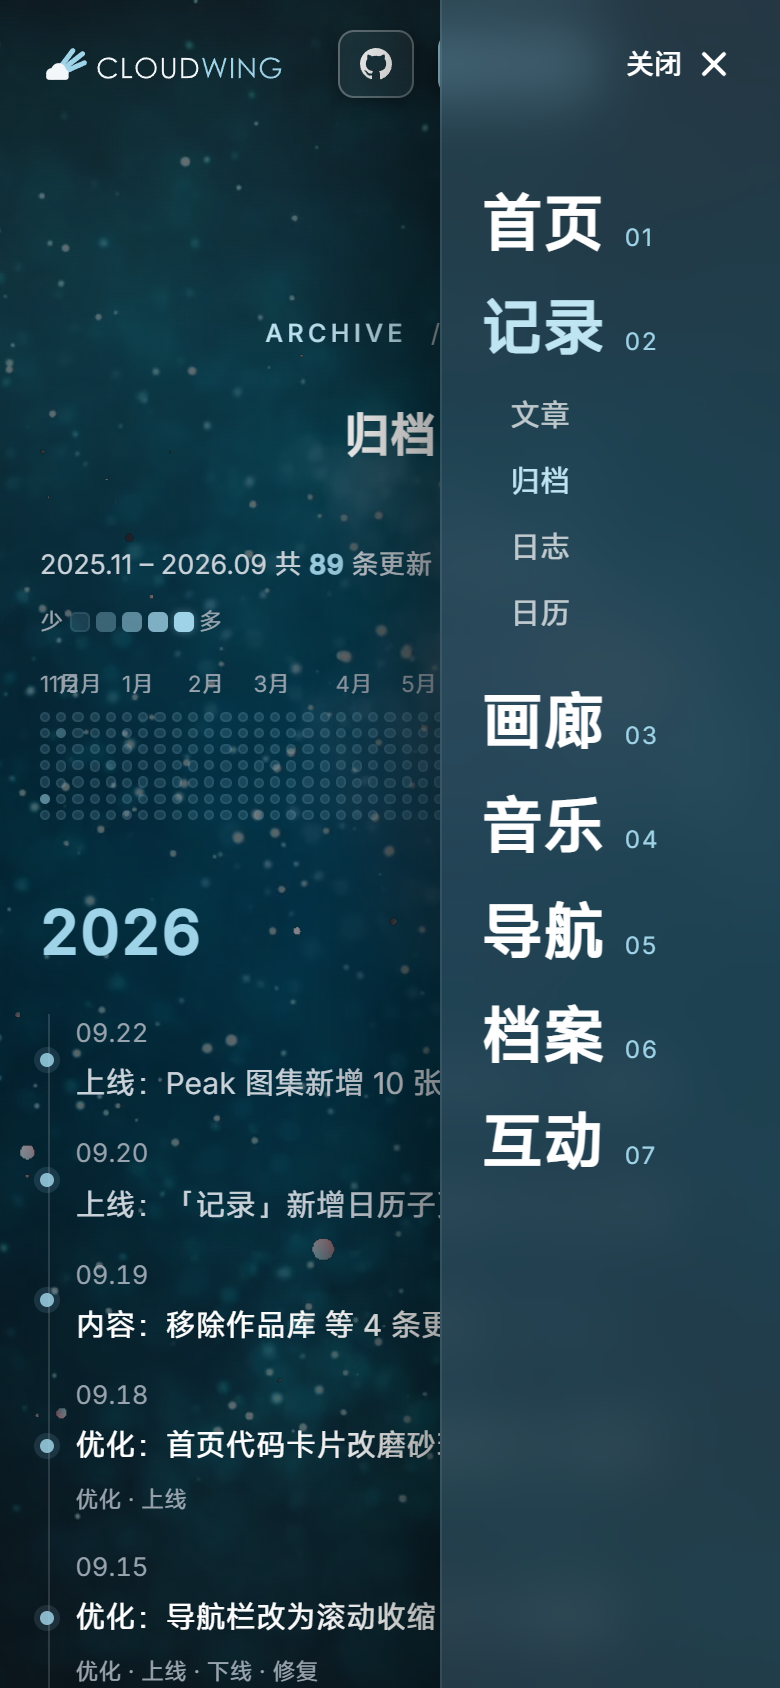
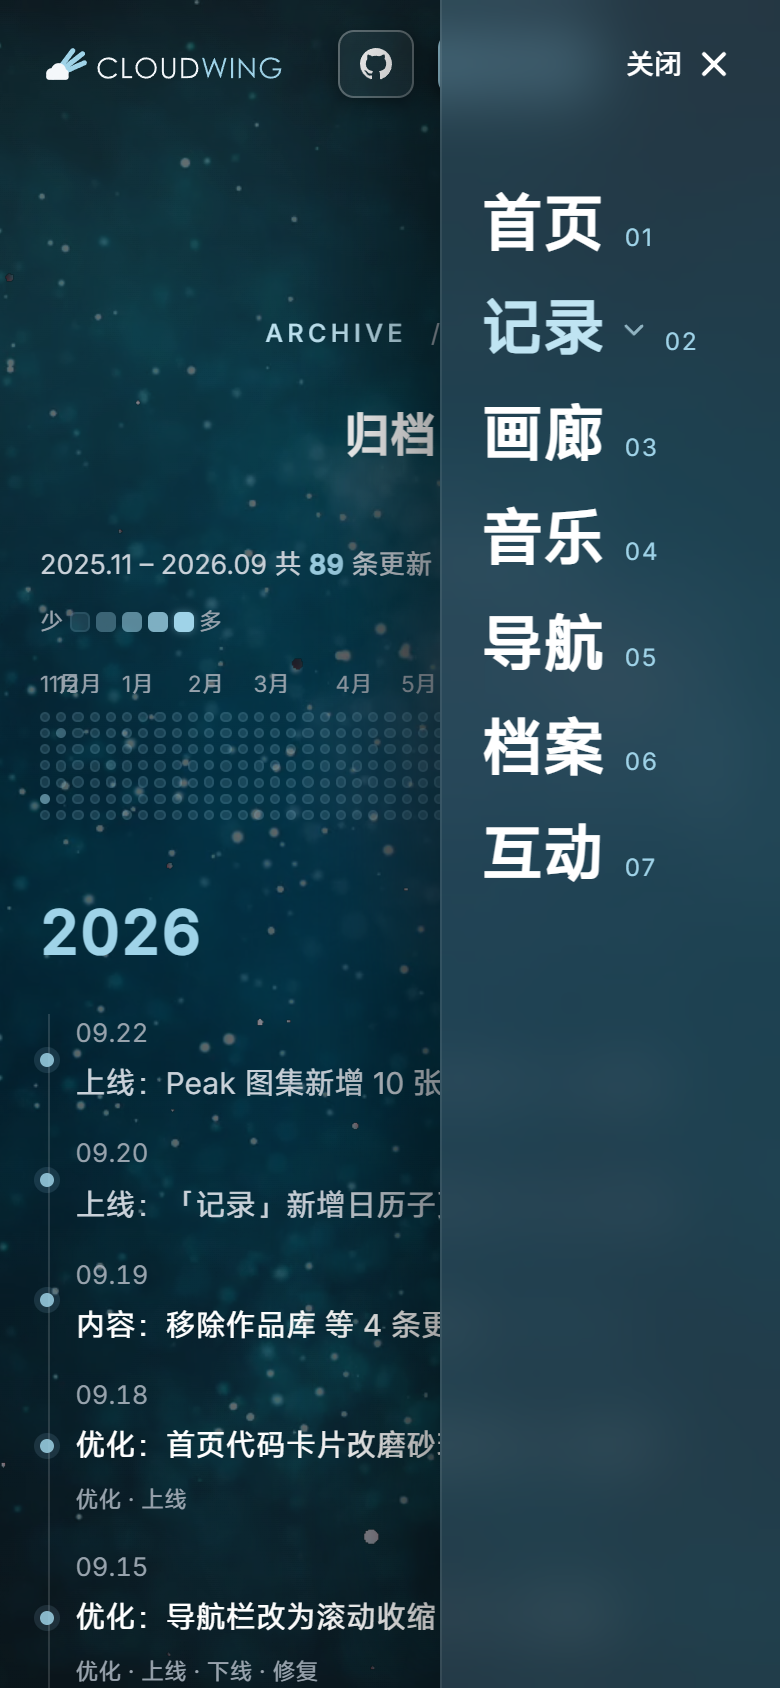
ui: 抽屉「记录」子链接收进下拉菜单（点父项展开，§80 反馈 4）

diff --git a/src/scripts/nav-mobile.js b/src/scripts/nav-mobile.js
@@ -52,7 +52,6 @@ function initMobileNav() {
     gsap.set([p.inner, ...p.layers], { x: 0, xPercent: 100 });
     gsap.set(p.labels, { yPercent: 140, rotate: 10 });
     gsap.set(p.links, { '--sm-num': 0 });
-    gsap.set(p.subs, { y: 14, opacity: 0 });
     panel.hidden = true;
   };
   const killTweens = () => {
@@ -108,7 +107,6 @@ function initMobileNav() {
       gsap.set([p.inner, ...p.layers], { xPercent: 0 });
       gsap.set(p.labels, { yPercent: 0, rotate: 0 });
       gsap.set(p.links, { '--sm-num': 1 });
-      gsap.set(p.subs, { y: 0, opacity: 1 });
     } else {
       const tl = gsap.timeline();
       openTlRef = tl;
@@ -118,7 +116,6 @@ function initMobileNav() {
       tl.fromTo(p.inner, { xPercent: 100 }, { xPercent: 0, duration: 0.65, ease: 'power4.out' }, at);
       tl.to(p.labels, { yPercent: 0, rotate: 0, duration: 1, ease: 'power4.out', stagger: 0.09 }, at + 0.1);
       tl.to(p.links, { '--sm-num': 1, duration: 0.6, ease: 'power2.out', stagger: 0.06 }, at + 0.15);
-      tl.to(p.subs, { y: 0, opacity: 1, duration: 0.5, ease: 'power3.out', stagger: 0.07 }, at + 0.22);
     }
     animateIcon(true);
     animateText(true);
@@ -156,6 +153,26 @@ function initMobileNav() {
     toggle?.setAttribute('aria-expanded', 'false');
     toggle?.setAttribute('aria-label', '打开菜单');
   };
+
+  /* 「记录」组：点击父项只展开/收起下拉，不跳转不关抽屉。
+     必须捕获阶段 + stopPropagation：抢在 ClientRouter（bubble）与本文件的
+     「点抽屉链接即收起」委托之前，否则 preventDefault 拦不住 pushState 导航。 */
+  document.addEventListener('click', (ev) => {
+    const t = ev.target instanceof Element ? ev.target : null;
+    if (!t) return;
+    const link = t.closest('[data-mnav-panel] .sm-item.has-sub > .sm-link');
+    if (!link) return;
+    ev.preventDefault();
+    ev.stopPropagation();
+    const item = link.closest('.sm-item.has-sub');
+    const on = !item.classList.contains('open');
+    item.classList.toggle('open', on);
+    link.setAttribute('aria-expanded', String(on));
+    if (on && !reduced()) {
+      const subLinks = item.querySelectorAll('.sm-sub a');
+      gsap.fromTo(subLinks, { y: -8, opacity: 0 }, { y: 0, opacity: 1, duration: 0.35, ease: 'power3.out', stagger: 0.05 });
+    }
+  }, true);
 
   document.addEventListener('click', (ev) => {
     const t = ev.target instanceof Element ? ev.target : null;

diff --git a/docs/HANDOFF.md b/docs/HANDOFF.md
@@ -3859,3 +3859,8 @@ V16 的 body 浅色渐变（旧「页面底色真实取值」）与 V17 的 `htm
   关键坑：滚动态胶囊 backdrop-filter 会形成层叠上下文困住开关，
   菜单打开时（mnav-open）显式 backdrop-filter:none。verify 加「抽屉盖住导航条」
   elementFromPoint 断言（探针用 .btn-pro，GitHub 按钮在抽屉左缘外测不到），40/40。
+
+- **§80 补 4（同晚）**：站长「把记录下的二级标题全部收进记录的下拉菜单里」——
+  子链接默认 display:none，点「记录」父项展开（capture 委托 + stopPropagation，
+  不跳转不关抽屉），再点收起；父项加 aria-expanded + caret 旋转；
+  开场时间线移除子链接动画。verify 加初始收起/展开/收起三断言，43/43。
